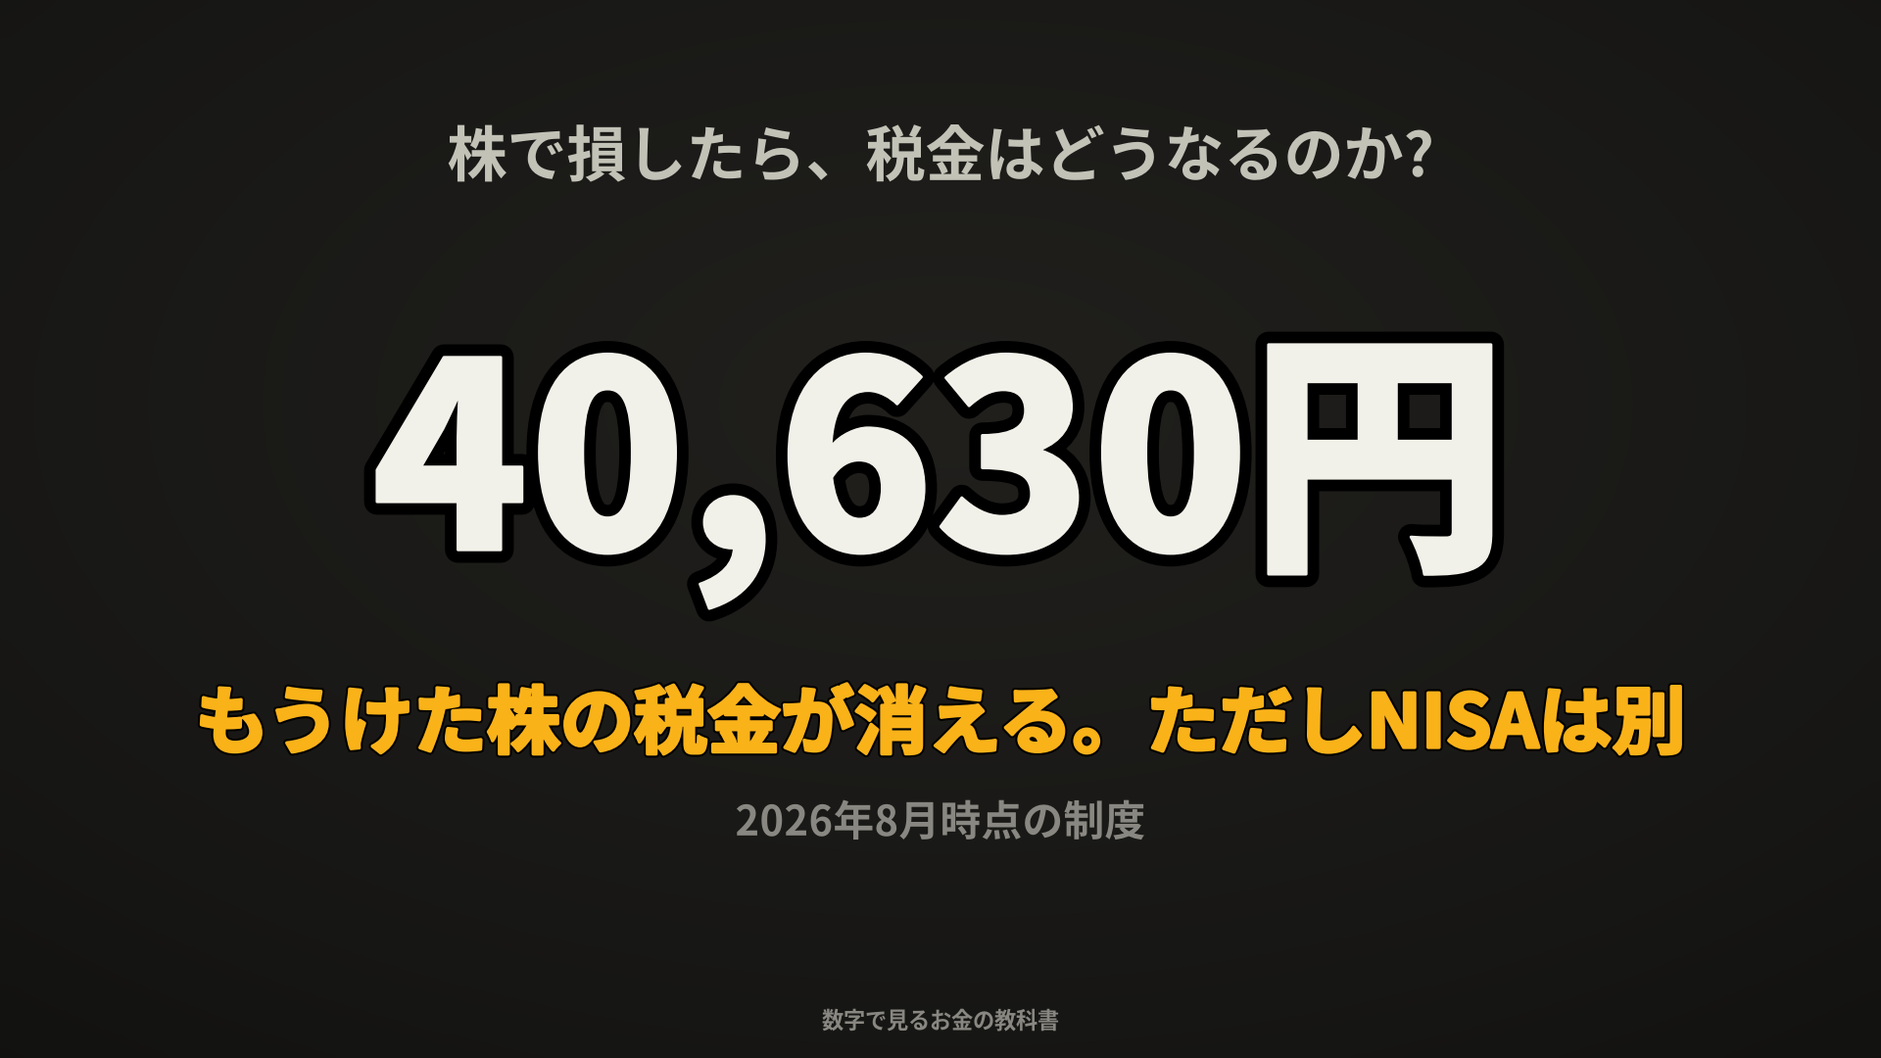
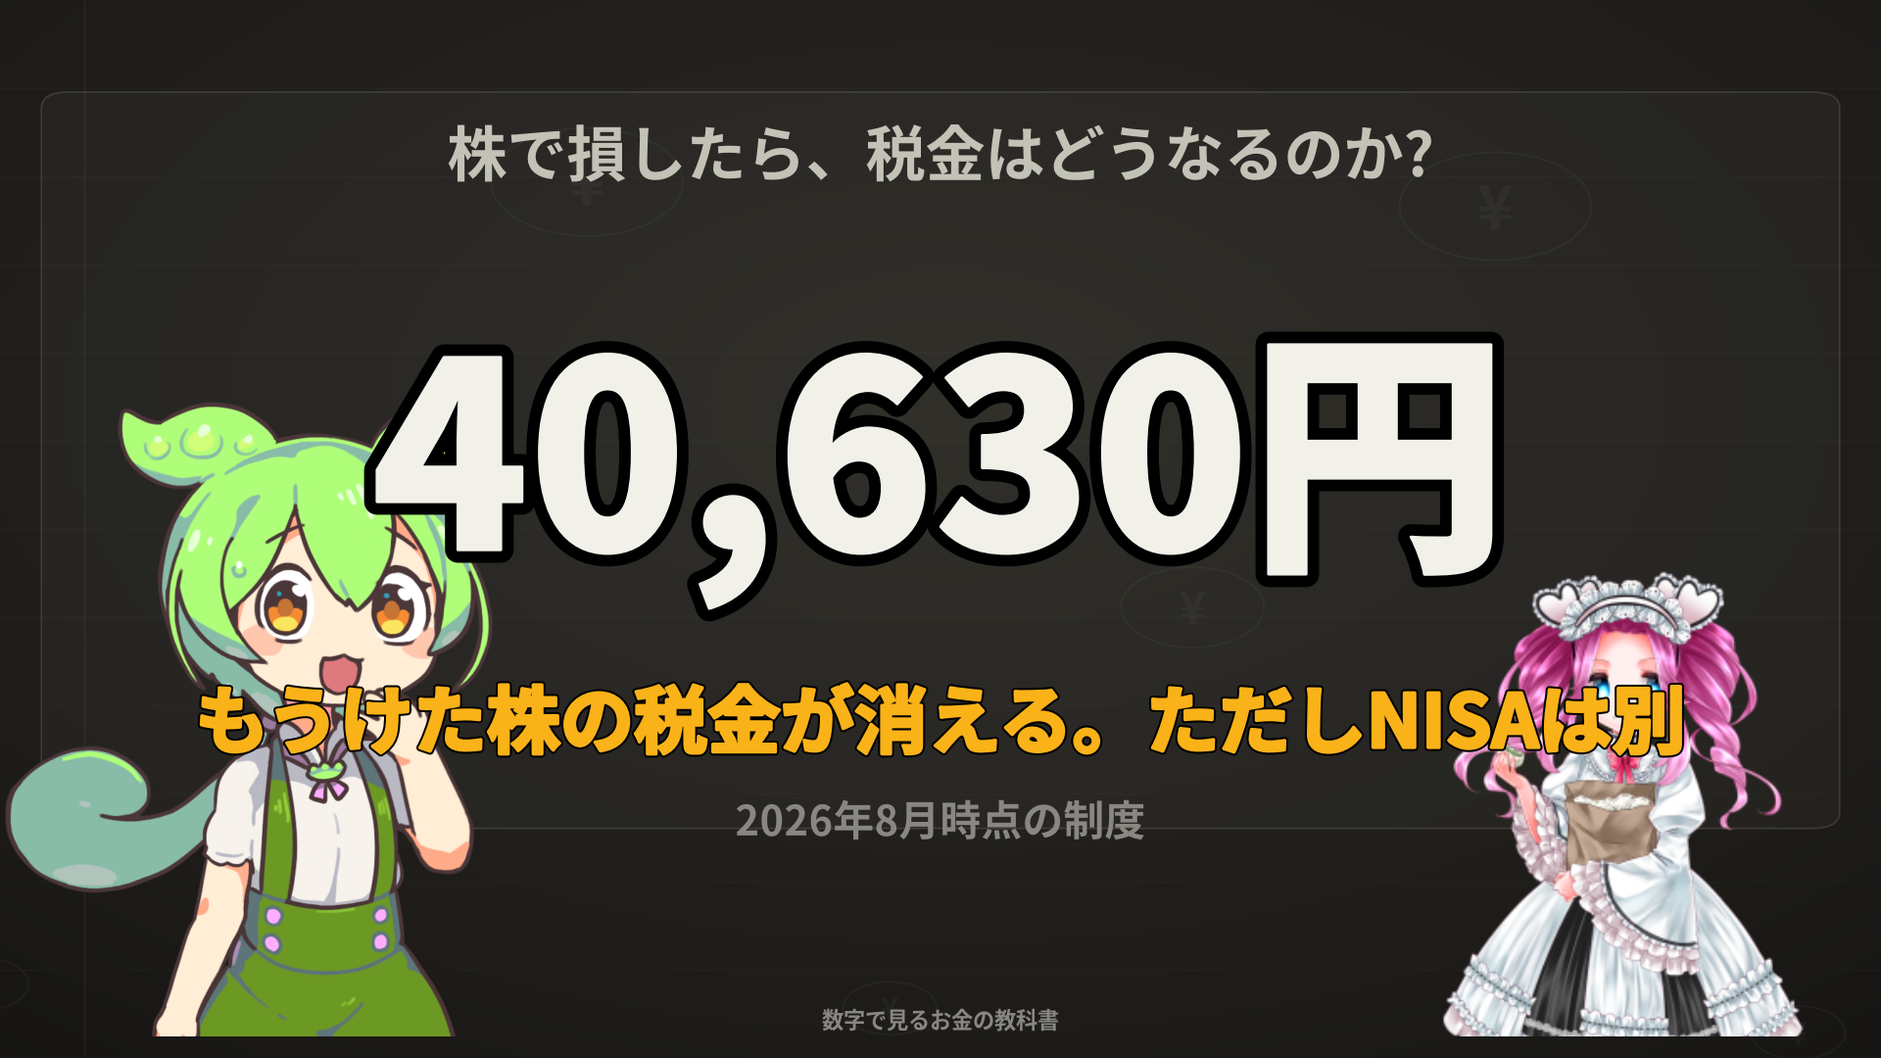
全要素Deep Researchの方針に基づき長尺の画面と音を刷新
- 調査: docs/research/video-elements-2026-08.md(16要素の分類と最適解。
  定番の『背景+テロップ帯+素材枠』構成が全部欠けていたことを特定)
- 背景: 教科書モチーフ(罫線ノート+紙目+ビネット+明度up)+流れる円貨モチーフ
  (『常にどこかが動く』の定石。静止ユニットも4fpsで背景が流れる)
- 素材枠: 中央コンテンツの角丸パネル / 章チップ: 左上常時表示・章ごとに色替え
- 字幕帯: 半透明テロップ帯+話者色ライン(図ユニットでも話者が分かる)
- サムネ: 定番4点構成(顔+大文字+背景+素材)の専用描画
- BGM: 実測で声との差2.2dBしかなく、定石(-20dB)に合わせ 0.6→0.15
- ショートは実測検証済みの現行ルックを維持(リッチ背景は長尺のみ)

Claude-Session: https://claude.ai/code/session_01H25d6cgY8iGwuwz8Ed5jdC

Changed region(s): [[0.0, 0.3667, 0.2812, 0.9778], [0.75, 0.5194, 0.9688, 0.9778]]

diff --git a/production/shortlib.py b/production/shortlib.py
@@ -134,6 +134,9 @@ def use_landscape():
     # 環境変数で明示指定されているときは、それを尊重して上書きしない
     if "SHORTLIB_SPEED_SCALE" not in os.environ:
         SPEED_SCALE = LONG_SPEED_SCALE
+    # 長尺はリッチ背景(背景+テロップ帯+素材枠+章チップ)を標準にする
+    # (video-elements-2026-08.md。ショートは実測検証済みの現行ルックを維持)
+    use_rich_bg()
 
 # ループ3: テロップの定番は源ノ角ゴシック(=Noto Sans CJK JP)。太ウェイトを実際に使う
 _JP_FONT_CANDIDATES = [
@@ -253,7 +256,7 @@ LONG_STOP_PAD = 0.5
 
 
 def render_signature(units, scene_painters, speaker=None, bgm=True, chara=True,
-                     out_name="") -> str:
+                     out_name="", bands=None) -> str:
     """レンダリング結果を一意に決める署名。
 
     `render_video` の再開判定に使うほか、**`check_long.py` が
@@ -270,7 +273,8 @@ def render_signature(units, scene_painters, speaker=None, bgm=True, chara=True,
          u.speaker)
         for u in units
     ] + [sorted(scene_painters), speaker if speaker is not None else DEFAULT_SPEAKER,
-         bgm, chara, out_name, SPEED_SCALE, W, H, EMPH, DUO]).encode()).hexdigest()
+         bgm, chara, out_name, SPEED_SCALE, W, H, EMPH, DUO, RICH_BG,
+         bands]).encode()).hexdigest()
 # 長尺(横型)の倍率。use_landscape() が環境変数の指定が無いときに差し替える。
 # 実測(05-tempo.md): 実効speed 1.25 = 約340字/分 = 日本語の「標準」の上限。
 # ショートの 1.3 は L001 で 398字/分 = 「速め」になり、8分続けると疲れる。
@@ -561,7 +565,9 @@ def assemble(frames: list[Path], durations: list[float], padded_wavs: list[Path]
         # 深掘り③: ダッキング(発話中はBGMが自動で下がる。動画ミックスの定石)
         filters.append("[0:a]asplit=2[nara][narb]")
         filters.append(
-            f"[{n_in}:a]volume=0.6[bgv];"
+            # 0.6→0.15(video-elements-2026-08.md #12)。実測: 声RMS-27.4dB/BGM生-25.2dB。
+            # 0.15でダッキング込みの発話中ギャップ約-22dB(定石: 声より-20dB、ゆっくり系は更に下)
+            f"[{n_in}:a]volume=0.15[bgv];"
             "[bgv][narb]sidechaincompress=threshold=0.015:ratio=6:attack=8:release=300:makeup=1[bg]"
         )
         if bgm_mute:
@@ -643,11 +649,85 @@ def _bg_image():
     return _BG_CACHE
 
 
-def new_canvas():
+# 長尺のリッチ背景(video-elements-2026-08.md)。定番の「背景+テロップ帯+素材枠」構成:
+#   ベース=教科書モチーフ(罫線ノート+紙目+ビネット、明度一段上げ)
+#   動き=薄い円貨(¥)モチーフが斜めにゆっくり流れる(「常にどこかが動く」の定石)
+#   枠=中央コンテンツ領域の角丸パネル / 章チップ=左上に常時表示(章ごとに色替え)
+RICH_BG = False
+DRIFT_FPS = 4            # 静止ユニットでも背景を流すためのフレームレート
+CURRENT_BAND = None      # (章ラベル, 色)。render_video が bands から units ごとに設定
+_BG_CACHE_RICH = None
+
+
+def use_rich_bg():
+    global RICH_BG
+    RICH_BG = True
+
+
+def _bg_image_rich():
+    global _BG_CACHE_RICH
+    if _BG_CACHE_RICH is None:
+        import numpy as np
+        h, w = 240, 135
+        y, x = np.mgrid[0:h, 0:w]
+        cx, cy = w / 2, h * 0.38
+        r = np.sqrt(((x - cx) / (w * 0.85)) ** 2 + ((y - cy) / (h * 0.85)) ** 2)
+        base = np.array([0x2b, 0x2a, 0x25], float)   # 中心(明るめの紙色がかった黒)
+        edge = np.array([0x17, 0x16, 0x14], float)
+        t = np.clip(r, 0, 1)[..., None]
+        img = base * (1 - t) + edge * t
+        vin = 1 - 0.12 * np.clip((r - 0.70) / 0.40, 0, 1)
+        img = img * vin[..., None]
+        _BG_CACHE_RICH = (img / 255).clip(0, 1)
+    return _BG_CACHE_RICH
+
+
+def _draw_rich_layers(fig, bg_ax, t: float):
+    import numpy as np
+    # 罫線ノート(横罫+左の縦罫。ごく薄く)
+    for k in range(1, 12):
+        bg_ax.axhline(k / 12, color="#8a8578", linewidth=0.7, alpha=0.055)
+    bg_ax.axvline(0.045, color="#b0846a", linewidth=1.0, alpha=0.10)
+    # 流れる円貨モチーフ(疑似乱数は添字から決める。Date系は使わない)
+    for i in range(7):
+        sx = ((i * 0.161 + 0.07) + t * 0.010) % 1.16 - 0.08
+        sy = ((i * 0.379 + 0.15) + t * 0.006) % 1.16 - 0.08
+        rr = 0.025 + (i % 3) * 0.013
+        c = plt.Circle((sx, sy), rr, fill=False, color="#c8bfa5",
+                       linewidth=1.4, alpha=0.05)
+        bg_ax.add_patch(c)
+        bg_ax.text(sx, sy, "¥", ha="center", va="center", color="#c8bfa5",
+                   fontsize=rr * 900, alpha=0.05)
+    # 素材表示枠(中央コンテンツの角丸パネル)
+    from matplotlib.patches import FancyBboxPatch
+    panel = FancyBboxPatch((0.030, 0.225), 0.940, 0.680,
+                           boxstyle="round,pad=0.008,rounding_size=0.015",
+                           facecolor="#ffffff", alpha=0.030,
+                           edgecolor="#8a8578", linewidth=1.2)
+    panel.set_alpha(None)
+    panel.set_facecolor((1, 1, 1, 0.030))
+    panel.set_edgecolor((0.54, 0.52, 0.47, 0.28))
+    bg_ax.add_patch(panel)
+    # 章チップ(左上に常時表示。色は章ごと)
+    if CURRENT_BAND:
+        label, color = CURRENT_BAND
+        fig.text(0.028, 0.945, label, ha="left", va="center", color="#17202a",
+                 fontsize=BADGE_FS, fontweight="bold",
+                 bbox=dict(boxstyle="round,pad=0.45", facecolor=color, edgecolor="none"))
+
+
+def new_canvas(t_global: float = 0.0):
     fig = plt.figure(figsize=FIGSIZE, dpi=DPI)
     fig.patch.set_facecolor(SURFACE)
     bg = fig.add_axes([0, 0, 1, 1], zorder=-10)
-    bg.imshow(_bg_image(), extent=[0, 1, 0, 1], aspect="auto", interpolation="bicubic")
+    if RICH_BG:
+        bg.imshow(_bg_image_rich(), extent=[0, 1, 0, 1], aspect="auto",
+                  interpolation="bicubic")
+        bg.set_xlim(0, 1)
+        bg.set_ylim(0, 1)
+        _draw_rich_layers(fig, bg, t_global)
+    else:
+        bg.imshow(_bg_image(), extent=[0, 1, 0, 1], aspect="auto", interpolation="bicubic")
     bg.axis("off")
     return fig
 
@@ -896,9 +976,23 @@ def draw_subtitle(fig, text: str, pop: float = 1.0, tag: str | None = None):
     pop>1 で表示直後の「ポン」(スケール収束)を表現する(ループ10)。
     block_fit=0.70: 字幕はShorts右ボタン列(x>0.85)に掛けない(x 0.15〜0.85。ループ⑫)。
     横型(use_landscape)ではUIを避ける必要がないので 0.86 まで広げる。
-    tag: 予備(未使用)。二人会話の話者表示は draw_speaker_plate(頭上の名前プレート)で行う。
-    字幕ブロックは上から下に積まれるため、字幕側に名札を足すと本文と衝突する。
+    tag: 話者名(二人会話)。リッチ背景では字幕帯の左端に話者色ラインを敷き、
+    立ち絵を消した図ユニットでも話者が視覚で分かるようにする(video-elements-2026-08.md)。
+    頭上の名前プレート(draw_speaker_plate)と併用。
     """
+    if RICH_BG:
+        # テロップ帯(定番の「テロップ背景」)。行数で高さを変えるとユニット間で
+        # ちらつくので、2行ぶんの固定帯にする
+        top = SUBTITLE_Y + SUB_LINE_H * 0.80
+        bot = SUBTITLE_Y - SUB_LINE_H * 1.55
+        fig.add_artist(plt.Rectangle((0.0, bot), 1.0, top - bot,
+                                     transform=fig.transFigure,
+                                     facecolor="#0b0b0a", alpha=0.52, zorder=2.4))
+        if tag:
+            color = METAN_TAG_COLOR if tag == "めたん" else ZUNDA_TAG_COLOR
+            fig.add_artist(plt.Rectangle((0.0, bot), 0.007, top - bot,
+                                         transform=fig.transFigure,
+                                         facecolor=color, alpha=0.95, zorder=2.5))
     draw_rich_text(fig, 0.5, SUBTITLE_Y, text, SUB_FS * pop, wrap=SUB_WRAP, line_h=SUB_LINE_H,
                    block_fit=SUB_BLOCK_FIT)
 
@@ -1007,7 +1101,8 @@ def draw_metan_chara(fig, talking: bool, t: float, alpha: float = 1.0):
 
 def render_video(units: list[Unit], scene_painters: dict, outdir: Path, out_name: str,
                  speaker: int = DEFAULT_SPEAKER, bgm: bool = True,
-                 chara: bool = True, bgm_variant: int | None = None) -> dict:
+                 chara: bool = True, bgm_variant: int | None = None,
+                 bands: list[tuple[int, str, str]] | None = None) -> dict:
     """ユニット列とシーン描画関数からmp4を作る。
 
     scene_painters: {scene名: painter(fig, t)}。tはユニット内アニメーションの進行度
@@ -1028,7 +1123,8 @@ def render_video(units: list[Unit], scene_painters: dict, outdir: Path, out_name
     #
     # ただし台本を直したのに古いフレームを使ってしまうと最悪なので、
     # **台本と調声の署名が一致したときだけ**残す。1文字でも変えたら捨てる。
-    sig = render_signature(units, scene_painters, speaker, bgm, chara, out_name)
+    sig = render_signature(units, scene_painters, speaker, bgm, chara, out_name,
+                           bands=bands)
     sig_file = workdir / "signature.txt"
     resumed = sig_file.exists() and sig_file.read_text().strip() == sig
     if not resumed:
@@ -1056,6 +1152,13 @@ def render_video(units: list[Unit], scene_painters: dict, outdir: Path, out_name
     elapsed = 0.0
     thumbnail = None
     for i, (u, w) in enumerate(zip(units, wavs)):
+        # 章チップ(左上)の表示内容をこのユニットの章に合わせる
+        global CURRENT_BAND
+        CURRENT_BAND = None
+        if bands:
+            for start, label, color in bands:
+                if i >= start:
+                    CURRENT_BAND = (label, color)
         pw = workdir / f"seg_{i:02d}_pad.wav"
         pad_wav(w, pw, u.pad)
         d_total = duration_of(pw)
@@ -1085,7 +1188,7 @@ def render_video(units: list[Unit], scene_painters: dict, outdir: Path, out_name
                 frames.append(f)
                 durations.append(dur)
                 return f
-            fig = new_canvas()
+            fig = new_canvas(elapsed + t_unit)
             (painter or scene_painters[u.scene])(fig, t)
             if chara_on and not no_chara:
                 tg = elapsed + t_unit
@@ -1115,7 +1218,11 @@ def render_video(units: list[Unit], scene_painters: dict, outdir: Path, out_name
                     draw_chara(fig, u.chara, mouth,
                                blink.eyes(tg) if not static_chara else "open", u.face, dy)
             if with_subtitle:
-                draw_subtitle(fig, u.subtitle, pop=pop)
+                tag = None
+                if DUO:
+                    tag = ("めたん" if (u.speaker or DEFAULT_SPEAKER) == METAN_SPEAKER
+                           else "ずんだもん")
+                draw_subtitle(fig, u.subtitle, pop=pop, tag=tag)
             save_frame(fig, f)
             frames.append(f)
             durations.append(dur)
@@ -1144,12 +1251,22 @@ def render_video(units: list[Unit], scene_painters: dict, outdir: Path, out_name
                     for j in range(m):
                         emit(1.0, n + j, hold / m,
                              t_unit=head + anim + hold * (j + 0.5) / m)
+                elif RICH_BG:
+                    # 背景が流れるので、立ち絵なしの静止区間も低fpsで割る(常に動く画面)
+                    m = max(1, int(round(hold * DRIFT_FPS)))
+                    for j in range(m):
+                        emit(1.0, n + j, hold / m,
+                             t_unit=head + anim + hold * (j + 0.5) / m)
                 else:
                     emit(1.0, n, hold)
         else:
             body = d_total - head
             if chara_on:
                 m = max(1, int(round(body * CHARA_FPS)))
+                for j in range(m):
+                    emit(1.0, j, body / m, t_unit=head + body * (j + 0.5) / m)
+            elif RICH_BG:
+                m = max(1, int(round(body * DRIFT_FPS)))
                 for j in range(m):
                     emit(1.0, j, body / m, t_unit=head + body * (j + 0.5) / m)
             else:

diff --git a/videos/L001-nisa-son/render.py b/videos/L001-nisa-son/render.py
@@ -486,14 +486,40 @@ CHAPTER_MARKS = list(zip(
     [0] + [_first[f"ch{k}"] for k in range(1, 5)], CHAPTER_MARKS_TITLES))
 assert [i for i, _ in CHAPTER_MARKS] == sorted(i for i, _ in CHAPTER_MARKS)
 
+# 章チップ(左上に常時表示。章ごとに色が替わる。video-elements-2026-08.md #5)
+BANDS = list(zip(
+    [i for i, _ in CHAPTER_MARKS],
+    ["今日の問い", "第1章 引けない損", "第2章 翌年も払う", "第3章 差の上限", "第4章 自分の場合"],
+    ["#fab219", "#ff7a6b", "#c39bff", "#5aa9ff", "#3ecf8e"],
+))
+
+
+def make_thumbnail():
+    """サムネ専用描画(定番=キャラの顔+大文字+色背景。video-elements-2026-08.md #10)。
+    カバー構図に、驚き顔のずんだもん(左・大きめ)とめたん(右)を重ねる。"""
+    from zunda import draw_zunda
+    import metan as mt
+    fig = S.new_canvas(0.0)
+    SCENES["son__cover"](fig, 1.0)
+    ax = fig.add_axes([0.000, 0.020, 0.305, 0.620])
+    ax.axis("off")
+    draw_zunda(ax, mouth=2, eyes="open", expr="surprised", flip=True)
+    h_fr = 0.46
+    w_fr = h_fr * S.H * (mt.ART_W / mt.ART_H) / S.W
+    ax2 = fig.add_axes([0.995 - w_fr, 0.020, w_fr, h_fr])
+    ax2.axis("off")
+    mt.draw_metan(ax2)
+    S.save_frame(fig, OUTDIR / "thumbnail.png")
+
 
 if __name__ == "__main__":
     require_voicevox()
-    result = render_video(UNITS, SCENES, OUTDIR, "L001.mp4")
+    result = render_video(UNITS, SCENES, OUTDIR, "L001.mp4", bands=BANDS)
     print(f"total: {result['total_sec']:.1f}s")
     lines = sl.chapter_lines(result["unit_secs"], CHAPTER_MARKS)
     (OUTDIR / "chapters.txt").write_text("\n".join(lines) + "\n")
     print("chapters:")
     for ln in lines:
         print("  " + ln)
+    make_thumbnail()
     print(f"mp4: {result['mp4']}")

diff --git a/docs/research/video-elements-2026-08.md b/docs/research/video-elements-2026-08.md
@@ -1,0 +1,66 @@
+# 動画の全構成要素の分解と最適解 — Deep Research(2026-08-21)
+
+ユーザー指摘「背景はなぜこのまま? 全ての要素において仕事をサボっているように思える。
+要素を全て詳細に分類して、その最適解は何かDeep researchをかけて、方針が決まってから作成」への回答。
+
+確度: A=一次資料/実測 B=独立複数ソース一致 C=単一ソース・自チャンネル判断(実測で検証する)
+
+## 調査の要点(ソースの一致点)
+
+1. **定番の画面は「背景+テロップ背景(字幕帯)+素材表示部分の枠」の3点セット**(確度B)。
+   ずんだもん/ゆっくり解説のテンプレはこの3つを最初に決める。**現状のL001はこの3つが全部無い。**
+2. **画面は常にどこかが動いているとキャラが止まっていても間が持つ**(確度B)。
+   背景がゆっくり流れる・効果背景が動く、が定石。
+3. 配色は**4色以内**(無彩色2+テーマ色+強調色)。フォントは太ゴシック2〜3種まで。
+   縁取りで背景との分離を確保。装飾は「足す」より「ノイズを削る」(確度B)。
+4. 音量は**BGMは声より約-20dB**(ゆっくり系は-25〜-35dBと更に控えめ推奨)。SEは強調と転換だけ(確度B)。
+5. サムネは**キャラの顔+大文字+派手背景+素材**の4点構成(確度B)。
+6. 立ち絵は口パク・目パチ・登場退場エフェクト。場面転換にはアイキャッチとSE(確度B)。
+
+## 要素の全分類と方針(現状→採用する解)
+
+### A. 画面
+
+| # | 要素 | 現状 | 定石(調査) | 採用する解 | 確度 |
+|---|---|---|---|---|---|
+| 1 | 背景ベース | ほぼ無地の暗グラデ(ショート流用) | 装飾背景。単色ベタは「手抜き」に見える | **教科書モチーフに刷新**: 罫線ノート風の薄グリッド+紙目テクスチャ+四隅ビネット。明度を一段上げる | B |
+| 2 | 背景の動き | 完全静止 | 常にどこかが動く(ゆっくり流れる背景) | **薄い円貨(¥)モチーフが斜めにゆっくり流れる層**を追加(α≈0.04、8fps) | B |
+| 3 | 素材表示枠 | 無し | 図の領域に枠を敷く | 中央コンテンツ領域に**角丸パネル**(背景より一段明るい面+細枠) | B |
+| 4 | 字幕帯 | 無し(縁取り文字のみ) | テロップ背景(帯)で分離 | 下部に**半透明の字幕帯**。左端に**話者色の縦ライン**(緑=ずんだ/ピンク=めたん)→ 立ち絵非表示ユニットでも話者が見える | B |
+| 5 | 章の常時表示 | 無し | 画面上部にタイトル/チャプター帯 | **左上に章チップ**(「第1章 引けない損」)を常時表示。章ごとに**アクセント色を切替**(1章=赤/2章=紫/3章=青/4章=緑) | B |
+| 6 | 場面転換 | 章札カード+止め+SE | アイキャッチ+SE | 章札シーンを**章色で塗るアイキャッチ**に強化(全画面の色替わりが転換の合図)。SEは既存 | B |
+| 7 | 立ち絵 | 口パク・目パチ・呼吸・減光・名前プレート | 口パク・目パチ・登場退場 | 現状+**章の頭で小ジャンプ**(登場感)。めたんは坂本アヒル様PSD入手待ちで口パク格上げ予定(記録済み) | B |
+| 8 | 図解 | 自作グラフ(独自性◎)・アニメあり | 図はテンプレ素材が多い | **自作を維持**(独自性はYPP対策の核)。図の登場アニメ・数字リビールSEは既存を維持 | A(実測) |
+| 9 | 強調演出 | 【】黄強調・don/impact・ジャンプ | キーワードテロップ・ズーム | 現状維持(色数4以内ルールに整合)。追加装飾はノイズ側と判断 | B |
+| 10 | サムネイル | カバーフレーム流用(顔なし) | **顔+大文字+派手背景+素材** | サムネ専用描画: 大きい数字+ずんだもん(驚き顔)+めたん+章色背景 | B |
+
+### B. 音
+
+| # | 要素 | 現状 | 定石 | 採用する解 | 確度 |
+|---|---|---|---|---|---|
+| 11 | 声 | 実測324字/分・調声済み | 300〜350字/分 | 維持(音素長ベースで管理) | A |
+| 12 | BGM | 自前ループ・ダッキング・止めで無音 | 声より-20dB(ゆっくり系は-25以下) | **-22dB前後に実測合わせ**(現状値を計測して超えていれば下げる)。曲は自前を維持(権利安全) | B |
+| 13 | SE | pop/don/impact/puchunを強調のみ | 転換と強調だけ。使いすぎ禁止 | 維持 | B |
+
+### C. 構成(既に実測・調査で決定済みの要素 — 変更しない)
+
+| # | 要素 | 方針(根拠) |
+|---|---|---|
+| 14 | 冒頭 | 40秒で答えを出し切る(longform-design.md・実測) |
+| 15 | 章 | 4章・章の出口に判定・二人会話の型(duo-skit-2026-08.md) |
+| 16 | 尺・締め | 6〜9分。締めは次に見るものの名指し(ショート版導線) |
+
+## 実装の順序(このあと)
+
+1. shortlib: 背景刷新(テクスチャ+動く層+ビネット)・コンテンツパネル・字幕帯+話者ライン・章チップAPI
+2. サムネ専用描画(顔+数字+章色)
+3. テストフレーム目視 → check_overlap / preview_long → 全ゲート
+4. L001再レンダリング(監視ループつき)→ 実フレーム検収 → 納品
+
+## 出典
+
+- ここ知り動画(テンプレ=背景+テロップ背景+素材枠) / さらえみblog(常に動く背景・アイキャッチ) /
+  videosalon テロップ大学(エッジ) / omniweb・0120.co.jp・freedoor(1行13字・4色以内・コントラスト4.5:1) /
+  Deiko・GRI・NEXUS MATERIAL・CreatorWays(-20dBルール、ゆっくり系-25〜-35dB) /
+  ココナラ出品情報複数(サムネ=キャラ顔+文字+背景+素材) / SS@ゆっくり編集効率化(立ち絵・登場退場)
+- 相互に独立した複数の実務ガイドで一致した点のみB。確認日 2026-08-21
